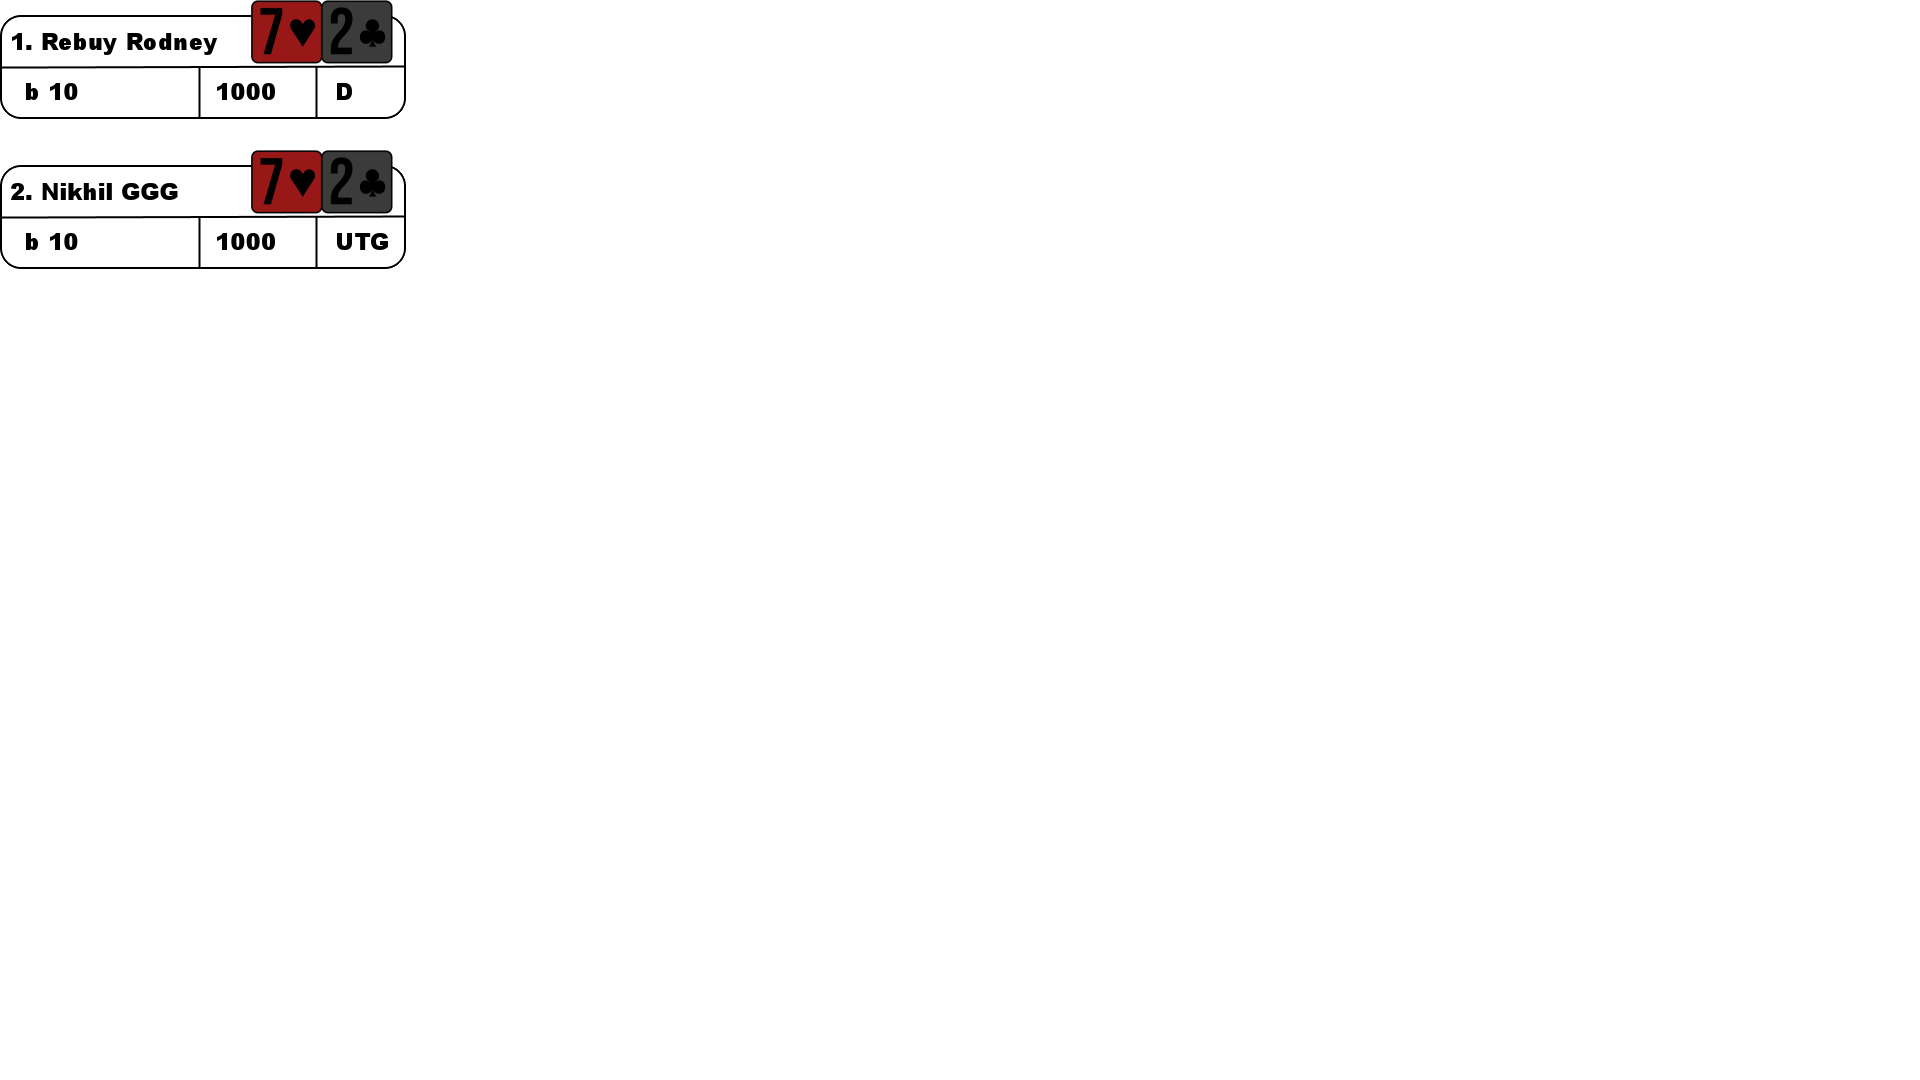
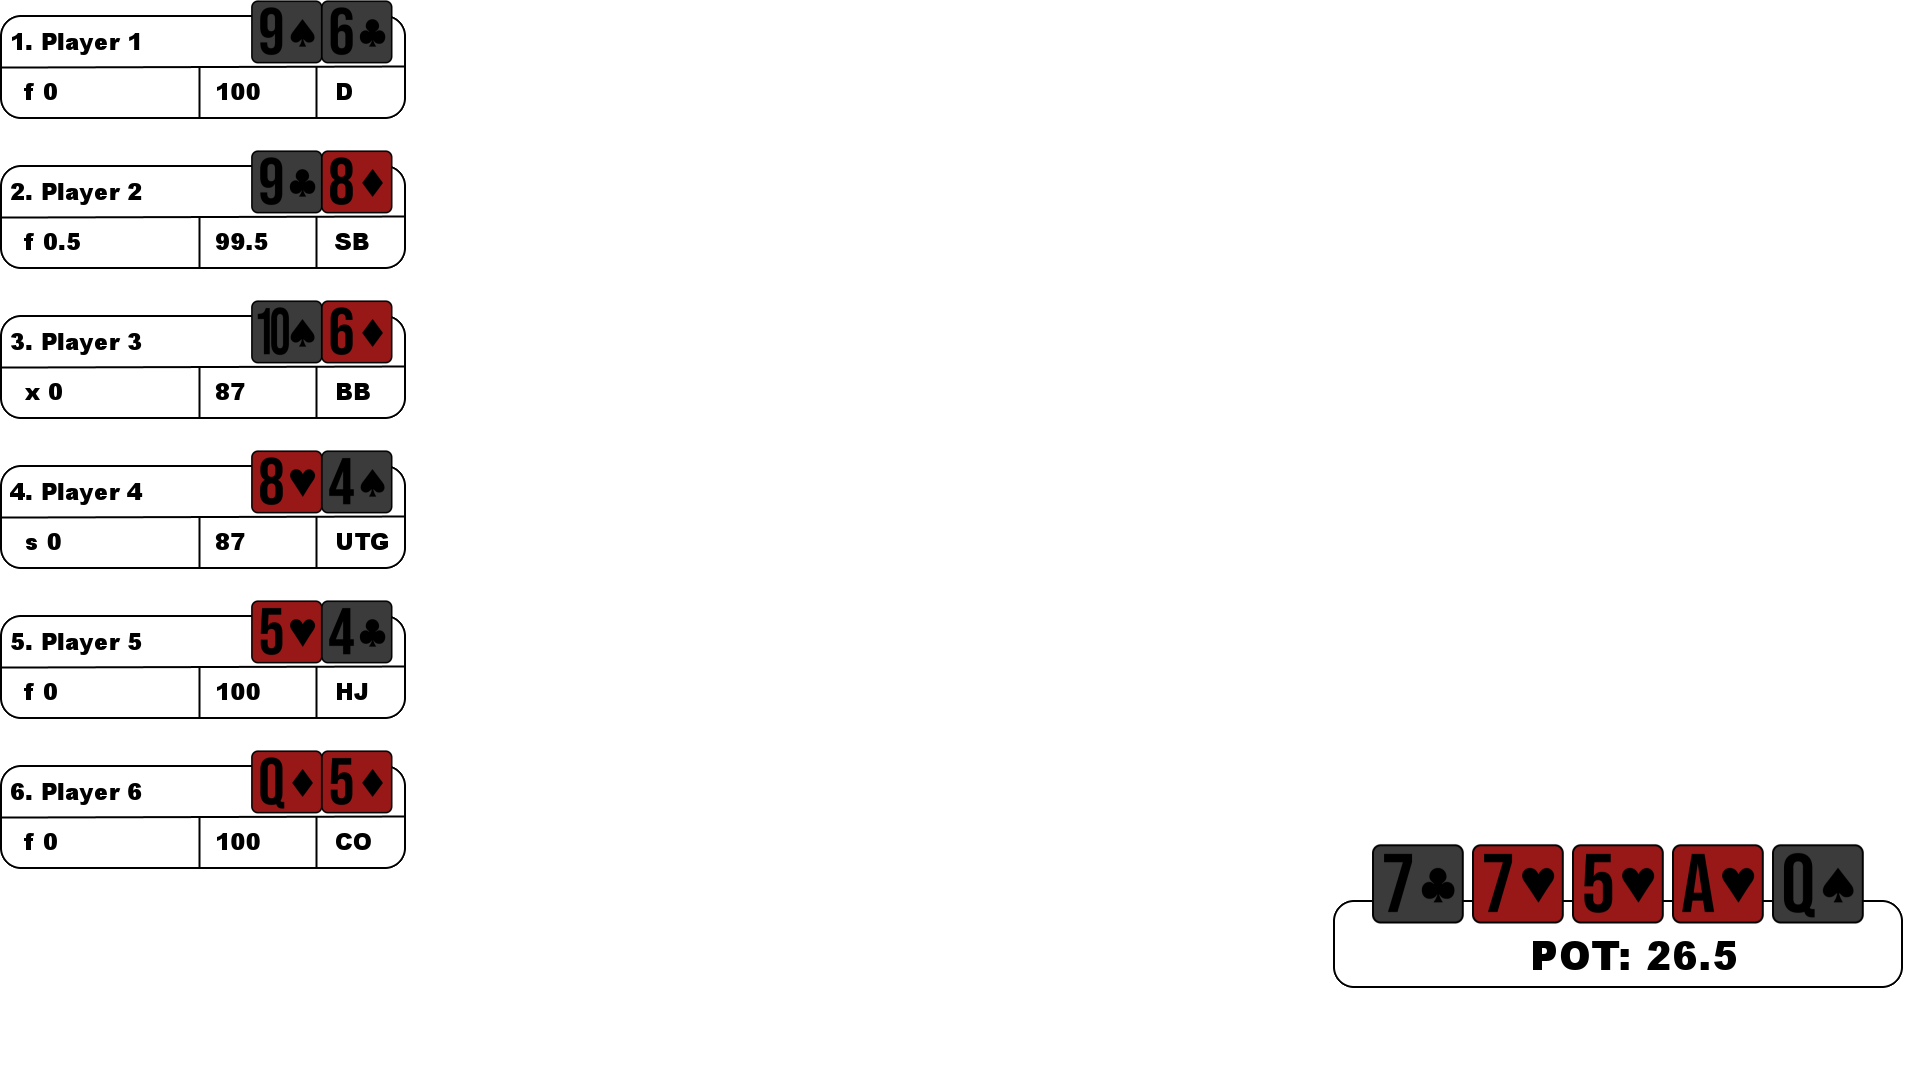
overlay dynamically updates, need to fix check down bug

diff --git a/createOverlay.js b/createOverlay.js
@@ -5,6 +5,7 @@ const Player = require("./player");
 
 // Function to generate canvas with images and text
 async function generateImage(player) {
+  
   // Define canvas dimensions
   const canvasWidth = 406;
   const canvasHeight = 119;
@@ -19,8 +20,8 @@ async function generateImage(player) {
   // Load images
   const images = await Promise.all([
     loadImage(__dirname + "/overlay_imgs/background.png"),
-    loadImage(__dirname + "/stream_cards/7h.png"),
-    loadImage(__dirname + "/stream_cards/2c.png")
+    loadImage(__dirname + `/stream_cards/${player.hand[0]}.png`),
+    loadImage(__dirname + `/stream_cards/${player.hand[1]}.png`)
   ]);
 
   images.forEach((image, index) => {
@@ -69,56 +70,19 @@ async function generateImage(player) {
 // stack size
 // position
 
-// Generate multiple instances of the canvas
-const testPlayer = new Player()
-this.name = "";
-this.stackSize = 0.0;
-this.seatNumber = "";
-this.currentBet = 0.0;
-this.position = "";
-this.hand = ["", ""]
-this.action = ""
-
-testPlayer.name = "Rebuy Rodney"
-testPlayer.stackSize = 1000
-testPlayer.seatNumber = "1"
-testPlayer.currentBet = 10
-testPlayer.position = "D"
-testPlayer.hand = ["Ah", "Ad"]
-testPlayer.action = "b"
-
-const testPlayer2 = new Player()
-this.name = "";
-this.stackSize = 0.0;
-this.seatNumber = "";
-this.currentBet = 0.0;
-this.position = "";
-this.hand = ["", ""]
-this.action = ""
-
-testPlayer2.name = "Nikhil G"
-testPlayer2.stackSize = 1000
-testPlayer2.seatNumber = "2"
-testPlayer2.currentBet = 10
-testPlayer2.position = "UTG"
-testPlayer2.hand = ["Ac", "As"]
-testPlayer2.action = "b"
-
-const playerArray = [testPlayer, testPlayer2]
-
-async function generateMasterCanvas(playerArray) { //input array of players & LAST_TO_BET object
+async function generateMasterCanvas(playerArray, board, pot) { //input array of players & LAST_TO_BET object
   const canvasWidth = 1920
   const canvasHeight = 1080
 
   const masterCanvas = createCanvas(canvasWidth, canvasHeight);
   const masterContext = masterCanvas.getContext("2d")
 
-  console.log(`test 1`)
 
   // Create an array to store promises of generated images
   const imagePromises = playerArray.map(player => generateImage(player));
-  console.log(imagePromises)
+  // console.log(imagePromises)
   const canvases = await Promise.all(imagePromises)
+  // console.log(canvases)
 
   // Place each canvas on the master canvas
   canvases.forEach((canvas, index) => {
@@ -131,6 +95,40 @@ async function generateMasterCanvas(playerArray) { //input array of players & LA
 
     masterContext.drawImage(canvas, position.x, position.y);
   });
+
+  // Load the pot background image
+  const potBackgroundImage = await loadImage(__dirname + "/overlay_imgs/pot_background.png");
+
+  masterContext.drawImage(potBackgroundImage, 1333, 900);
+
+  // let board = ["7c","2s","2d","5h","5d"];
+
+  const blankCard = await loadImage(__dirname + "/stream_cards/b.png");
+
+  const cardImagePromises = board.map(card => loadImage(__dirname + "/stream_cards/" + card + ".png"));
+
+  try {
+    // Wait for all card images to be loaded
+    const cardImages = await Promise.all(cardImagePromises);
+  
+    // Draw the loaded card images onto the master canvas
+    cardImages.forEach((cardImage, index) => {
+      const xPosition = 1368 + index * 100; // Increment x position by 100 each time
+      masterContext.drawImage(cardImage, xPosition, 840, 100, 88);
+    });
+  } catch (error) {
+    console.error("An error occurred while loading card images:", error);
+  }
+
+    // Define the text to be written
+  const potText = `POT: ${pot}`;
+
+  // Set the font style and color
+  masterContext.fillStyle = "black";
+  masterContext.font = "900 40px Arial";
+
+  // Write the text on the master canvas
+  masterContext.fillText(potText, 1530, 970);
 
   const masterCanvasPath = __dirname + "/masterCanvas.png";
 

diff --git a/stream.js b/stream.js
@@ -4,6 +4,8 @@ const Queue = require("./Queue");
 const Player = require("./player");
 const assignCardsToMap = require('./assignCards.js');
 const generateMasterCanvas = require("./createOverlay");
+const path = require('path');
+const fs = require('fs');
 const playerQueue = new Queue();
 
 const SMALL_BLIND = 0.50
@@ -22,7 +24,8 @@ const ACTIONS = Object.freeze({
   FOLD: 'f',
   CALL: 'c',
   RAISE: 'r',
-  CHECK: 'x'
+  CHECK: 'x',
+  STANDBY: 's'
 })
 
 const Menu = Object.freeze({
@@ -36,7 +39,7 @@ const Menu = Object.freeze({
 
 let players = [];
 
-let board = [];
+let board = ["b", "b", "b", "b", "b"];
 let button = 2;
 const cardMap = new Map();
 let selector = Menu.HOME_PAGE;
@@ -85,35 +88,43 @@ async function main() {
       const buttonStartingPosition = getButton();
       initializePlayerQueue(buttonStartingPosition);
       await assignCardsToPlayers(buttonStartingPosition)
-      readPlayerActions()
+      await readPlayerActions()
       // read player Actions
     }
   }
 }
 
 async function readPlayerActions() {
-  console.log(players)
   let handIsOver = false;
   let pot = SMALL_BLIND + BIG_BLIND
   for (let i = 0; i < 4 && playerQueue.size() > 1; i++) {
 
+    if (i == 0) {
+      board = ["b", "b", "b", "b", "b"]
+    }
     if (i > 0) {
+      setBoard(i);
       adjustPlayerQueueOrder()
       resetPlayerCurrentBetAndAction()
       LAST_TO_BET.NAME = ""
       LAST_TO_BET.AMOUNT = 0.0
     }
 
-    console.log(playerQueue.items)
+    console.log(board)
+
+
+    // console.log(playerQueue.items)
     //print remaining players
 
     let actionIsClosed = false;
     let playerToAct = {}
     while (playerQueue.size() > 1 && !actionIsClosed) {
         playerToAct = playerQueue.dequeue()
-        //set flag playerToAct.isTurn = true;
+        // set flag playerToAct.isTurn = true;
         //generate players
-        await generateMasterCanvas(players)
+
+        //figure out which players to send
+        await generateMasterCanvas(players,board,pot)
 
         const input = readlineSync.question(`\n${playerToAct.position}|Seat ${playerToAct.seatNumber}: 'f', 'x', 'b', 'c', 'r':  `);
         const action = input.charAt(0);
@@ -212,12 +223,45 @@ function awardPotToWinner(pot) {
   players[seatNumberThatWon-1].stackSize += pot;
 }
 
+function setBoard(street) {
+  if (street === 1) {
+    for (let i = 0; i < 3; i++) {
+      let isValid = false;
+      while (!isValid) {
+        const card = readlineSync.question(`Enter card ${i + 1}: `);
+        if (isValidCard(card)) {
+          board[i] = card;
+          isValid = true;
+        } else {
+          console.log(`${card} is not a valid card.`);
+        }
+      }
+    }
+  } else if (street === 2 || street === 3) {
+    let isValid = false;
+      while (!isValid) {
+        const card = readlineSync.question(`Enter card ${street + 2}: `);
+        if (isValidCard(card)) {
+          board[street+1] = card;
+          isValid = true;
+        } else {
+          console.log(`${card} is not a valid card.`);
+        }
+   }
+  }
+}
+
+function isValidCard(card) {
+  const cardPath = path.join(__dirname, 'stream_cards', `${card}.png`);
+  return fs.existsSync(cardPath);
+}
+
 function resetPlayerCurrentBetAndAction() {
   let player = {}
   for (let i = 0; i < playerQueue.size(); i++) {
     player = playerQueue.dequeue()
     player.currentBet = 0.0
-    player.action = ''
+    player.action = ACTIONS.STANDBY
     playerQueue.enqueue(player)
   }
 }

diff --git a/test.js b/test.js
@@ -1,5 +1,6 @@
 const generateMasterCanvas = require("./createOverlay");
 const Player = require("./player");
+const readlineSync = require("readline-sync");
 
 
 const testPlayer = new Player()
@@ -13,7 +14,7 @@ this.action = ""
 
 testPlayer.name = "Rebuy Rodney"
 testPlayer.stackSize = 1000
-testPlayer.seatNumber = "1"
+testPlayer.seatNumber = 1
 testPlayer.currentBet = 10
 testPlayer.position = "D"
 testPlayer.hand = ["Ah", "Ad"]
@@ -30,7 +31,7 @@ this.action = ""
 
 testPlayer2.name = "Nikhil GGG"
 testPlayer2.stackSize = 1000
-testPlayer2.seatNumber = "2"
+testPlayer2.seatNumber = 2
 testPlayer2.currentBet = 10
 testPlayer2.position = "UTG"
 testPlayer2.hand = ["Ac", "As"]

diff --git a/test2.js b/test2.js
@@ -1,0 +1,22 @@
+const readline = require('readline');
+const fs = require('fs');
+const path = require('path');
+
+const rl = readline.createInterface({
+  input: process.stdin,
+  output: process.stdout
+});
+
+function isValidCard(card) {
+  const cardPath = path.join(__dirname, 'stream_cards', `${card}.png`);
+  return fs.existsSync(cardPath);
+}
+
+rl.question('Enter a card: ', (card) => {
+  if (isValidCard(card)) {
+    console.log(`${card} is a valid card.`);
+  } else {
+    console.log(`${card} is not a valid card.`);
+  }
+  rl.close();
+});
